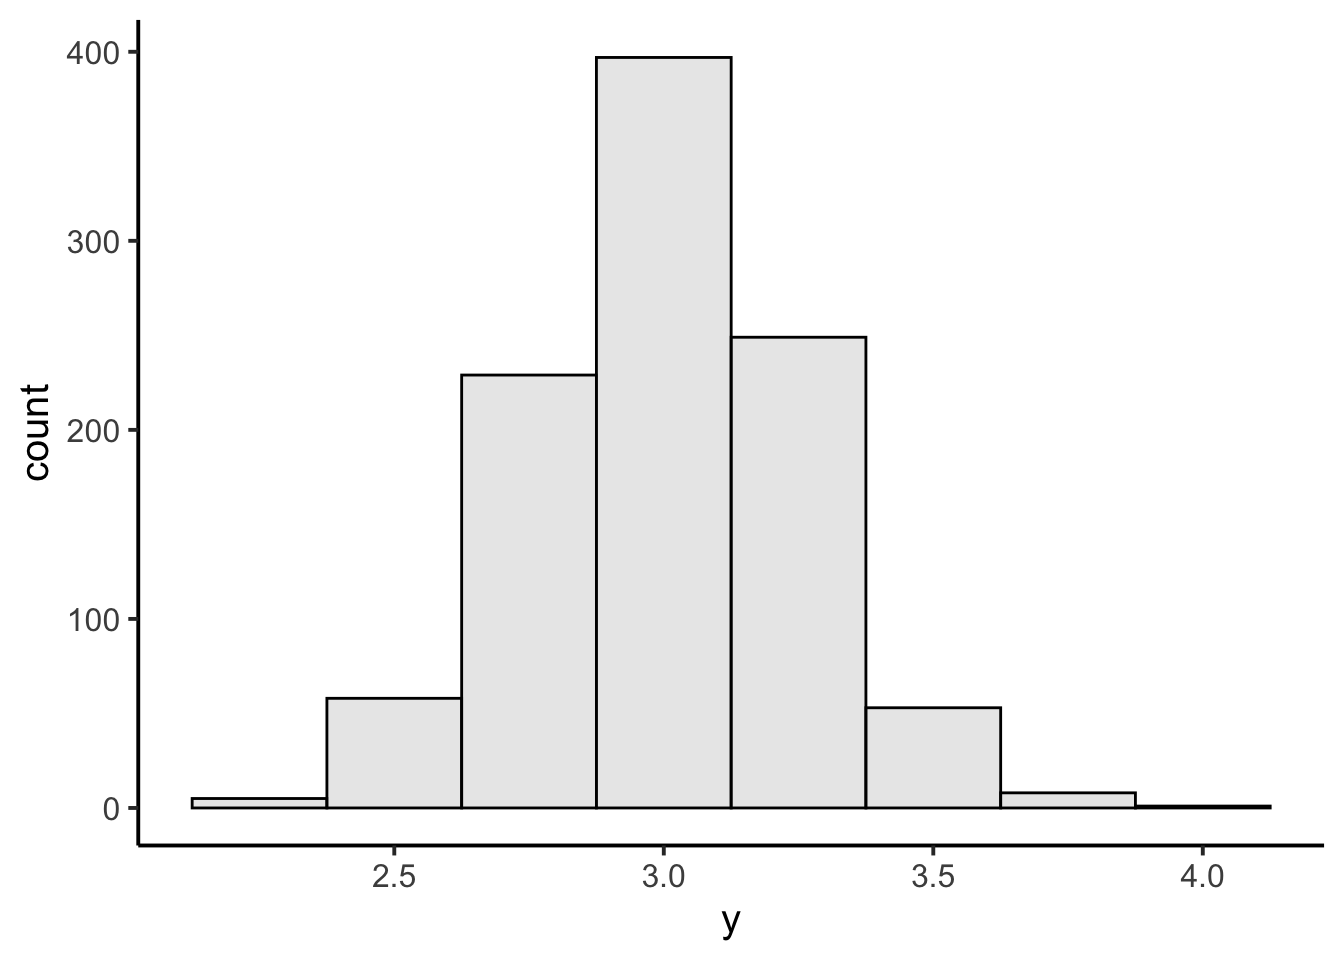
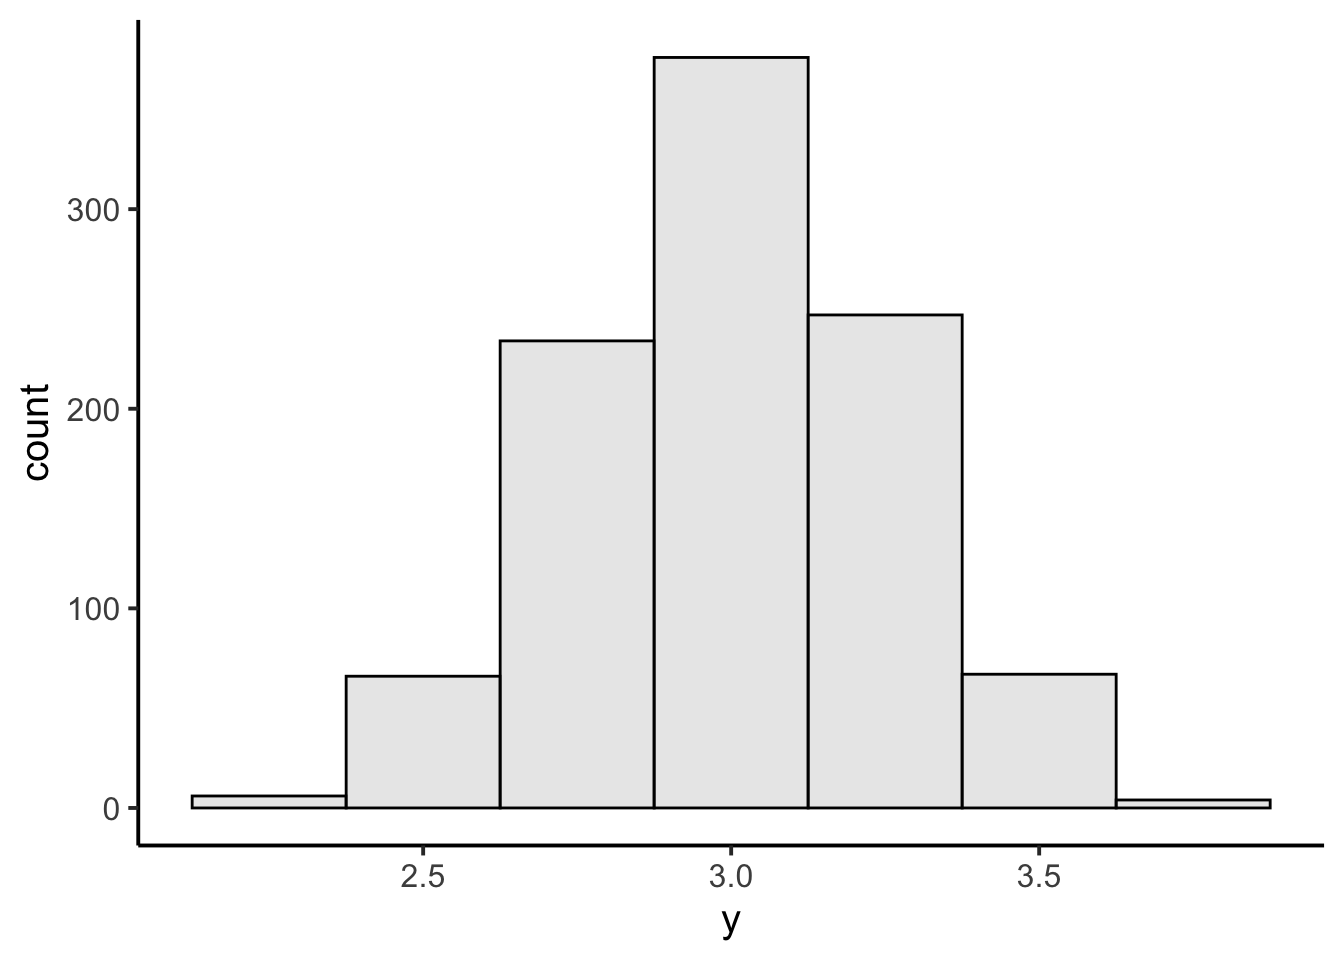
Built site for gh-pages

diff --git a/lecturenotes/r/data-importing.html b/lecturenotes/r/data-importing.html
@@ -226,8 +226,8 @@ pre > code.sourceCode > span > a:first-child::before { text-decoration: underlin
 
 </header>
 
-<section id="welcome-to-the-tidyverse" class="level3">
-<h3 class="anchored" data-anchor-id="welcome-to-the-tidyverse">1 Welcome to the tidyverse</h3>
+<section id="welcome-to-the-tidyverse" class="level2">
+<h2 class="anchored" data-anchor-id="welcome-to-the-tidyverse">1 Welcome to the tidyverse</h2>
 <blockquote class="blockquote">
 <p>The tidyverse is an opinionated collection of R packages designed for data science. All packages share an underlying design philosophy, grammar, and data structures. ~ <a href="https://www.tidyverse.org/">Tidyverse package docs</a></p>
 </blockquote>
@@ -247,8 +247,8 @@ pre > code.sourceCode > span > a:first-child::before { text-decoration: underlin
 <li>We can resolve conflicts with the <code>::</code> operator, which allows us to specify which package our intended function belongs to as a prefix: <code>stats::filter()</code> or <code>dplyr::filter()</code></li>
 </ul>
 </section>
-<section id="what-is-tidy-data" class="level3">
-<h3 class="anchored" data-anchor-id="what-is-tidy-data">2 What is tidy data?</h3>
+<section id="what-is-tidy-data" class="level2">
+<h2 class="anchored" data-anchor-id="what-is-tidy-data">2 What is tidy data?</h2>
 <p>The same underlying data can be represented in a table in many different ways; some easier to work with than others. The tidyverse makes use of tidy data principles to make datasets easier to work with in R. <strong>Tidy data</strong> provides a standard way of structuring datasets:</p>
 <ol type="1">
 <li>each variable forms a <strong>column</strong>; each column forms a variable</li>
@@ -261,8 +261,8 @@ pre > code.sourceCode > span > a:first-child::before { text-decoration: underlin
 <li>Variables as columns works well for vectorized languages (R!)</li>
 </ul>
 </section>
-<section id="functional-programming-with-purrr" class="level3">
-<h3 class="anchored" data-anchor-id="functional-programming-with-purrr">3 Functional programming with purrr</h3>
+<section id="functional-programming-with-purrr" class="level2">
+<h2 class="anchored" data-anchor-id="functional-programming-with-purrr">3 Functional programming with purrr</h2>
 <blockquote class="blockquote">
 <p>purrr enhances R’s functional programming (FP) toolkit by providing a complete and consistent set of tools for working with functions and vectors. If you’ve never heard of FP before, the best place to start is the family of map() functions which allow you to replace many for loops with code that is both more succinct and easier to read. ~ purrr docs</p>
 </blockquote>
@@ -285,8 +285,8 @@ pre > code.sourceCode > span > a:first-child::before { text-decoration: underlin
 <div class="sourceCode" id="cb1"><pre class="sourceCode r code-with-copy"><code class="sourceCode r"><span id="cb1-1"><a href="#cb1-1" aria-hidden="true" tabindex="-1"></a><span class="fu">map_dbl</span>(df, mean)</span></code><button title="Copy to Clipboard" class="code-copy-button"><i class="bi"></i></button></pre></div>
 <p>Now imagine we have 5 more data frames and we want to compute the mean of each of their columns, too. Again, we could copy and paste the <code>map()</code> function or use it in a <code>for</code> loop. But the <code>map</code> family allows us go up a layer of abstraction. We can use <code>pmap()</code> when we want to apply a function element-wise to corresponding items in multiple lists.</p>
 </section>
-<section id="modern-data-frames-with-tibble" class="level3">
-<h3 class="anchored" data-anchor-id="modern-data-frames-with-tibble">4 Modern data frames with tibble</h3>
+<section id="modern-data-frames-with-tibble" class="level2">
+<h2 class="anchored" data-anchor-id="modern-data-frames-with-tibble">4 Modern data frames with tibble</h2>
 <blockquote class="blockquote">
 <p>A tibble, or tbl_df, is a modern reimagining of the data.frame, keeping what time has proven to be effective, and throwing out what is not. Tibbles are data.frames that are lazy and surly: they do less and complain more ~ <a href="https://tibble.tidyverse.org/">tibble docs</a></p>
 </blockquote>
@@ -322,8 +322,8 @@ pre > code.sourceCode > span > a:first-child::before { text-decoration: underlin
 <li><code>is.data.frame(x)</code></li>
 </ul>
 </section>
-<section id="reading-data-with-readr" class="level3">
-<h3 class="anchored" data-anchor-id="reading-data-with-readr">5 Reading data with readr</h3>
+<section id="reading-data-with-readr" class="level2">
+<h2 class="anchored" data-anchor-id="reading-data-with-readr">5 Reading data with readr</h2>
 <blockquote class="blockquote">
 <p>The goal of readr is to provide a fast and friendly way to read rectangular data from delimited files, such as comma-separated values (CSV) and tab-separated values (TSV). It is designed to parse many types of data found in the wild, while providing an informative problem report when parsing leads to unexpected results. ~ readr docs</p>
 </blockquote>
@@ -394,8 +394,8 @@ pre > code.sourceCode > span > a:first-child::before { text-decoration: underlin
 <li><strong>json data</strong> with <code>jsonlite</code> - see <a href="https://r4ds.hadley.nz/rectangling">Hierarchical data</a> in R for Data Science</li>
 </ul>
 </section>
-<section id="further-reading-and-references" class="level3">
-<h3 class="anchored" data-anchor-id="further-reading-and-references">Further reading and references</h3>
+<section id="further-reading-and-references" class="level2">
+<h2 class="anchored" data-anchor-id="further-reading-and-references">Further reading and references</h2>
 <p>Recommended further reading:</p>
 <ul>
 <li><a href="https://r4ds.hadley.nz/data-tidy">Data tidying</a> in R for Data Science</li>

diff --git a/lecturenotes/probability-distributions.html b/lecturenotes/probability-distributions.html
@@ -261,11 +261,11 @@ pre > code.sourceCode > span > a:first-child::before { text-decoration: underlin
 <tbody>
 <tr class="odd">
 <td style="text-align: right;">1000</td>
-<td style="text-align: right;">3.009316</td>
-<td style="text-align: right;">3.014818</td>
-<td style="text-align: right;">0.244601</td>
-<td style="text-align: right;">2.843554</td>
-<td style="text-align: right;">3.164133</td>
+<td style="text-align: right;">3.002629</td>
+<td style="text-align: right;">3.003859</td>
+<td style="text-align: right;">0.2501857</td>
+<td style="text-align: right;">2.835345</td>
+<td style="text-align: right;">3.17987</td>
 </tr>
 </tbody>
 </table>
